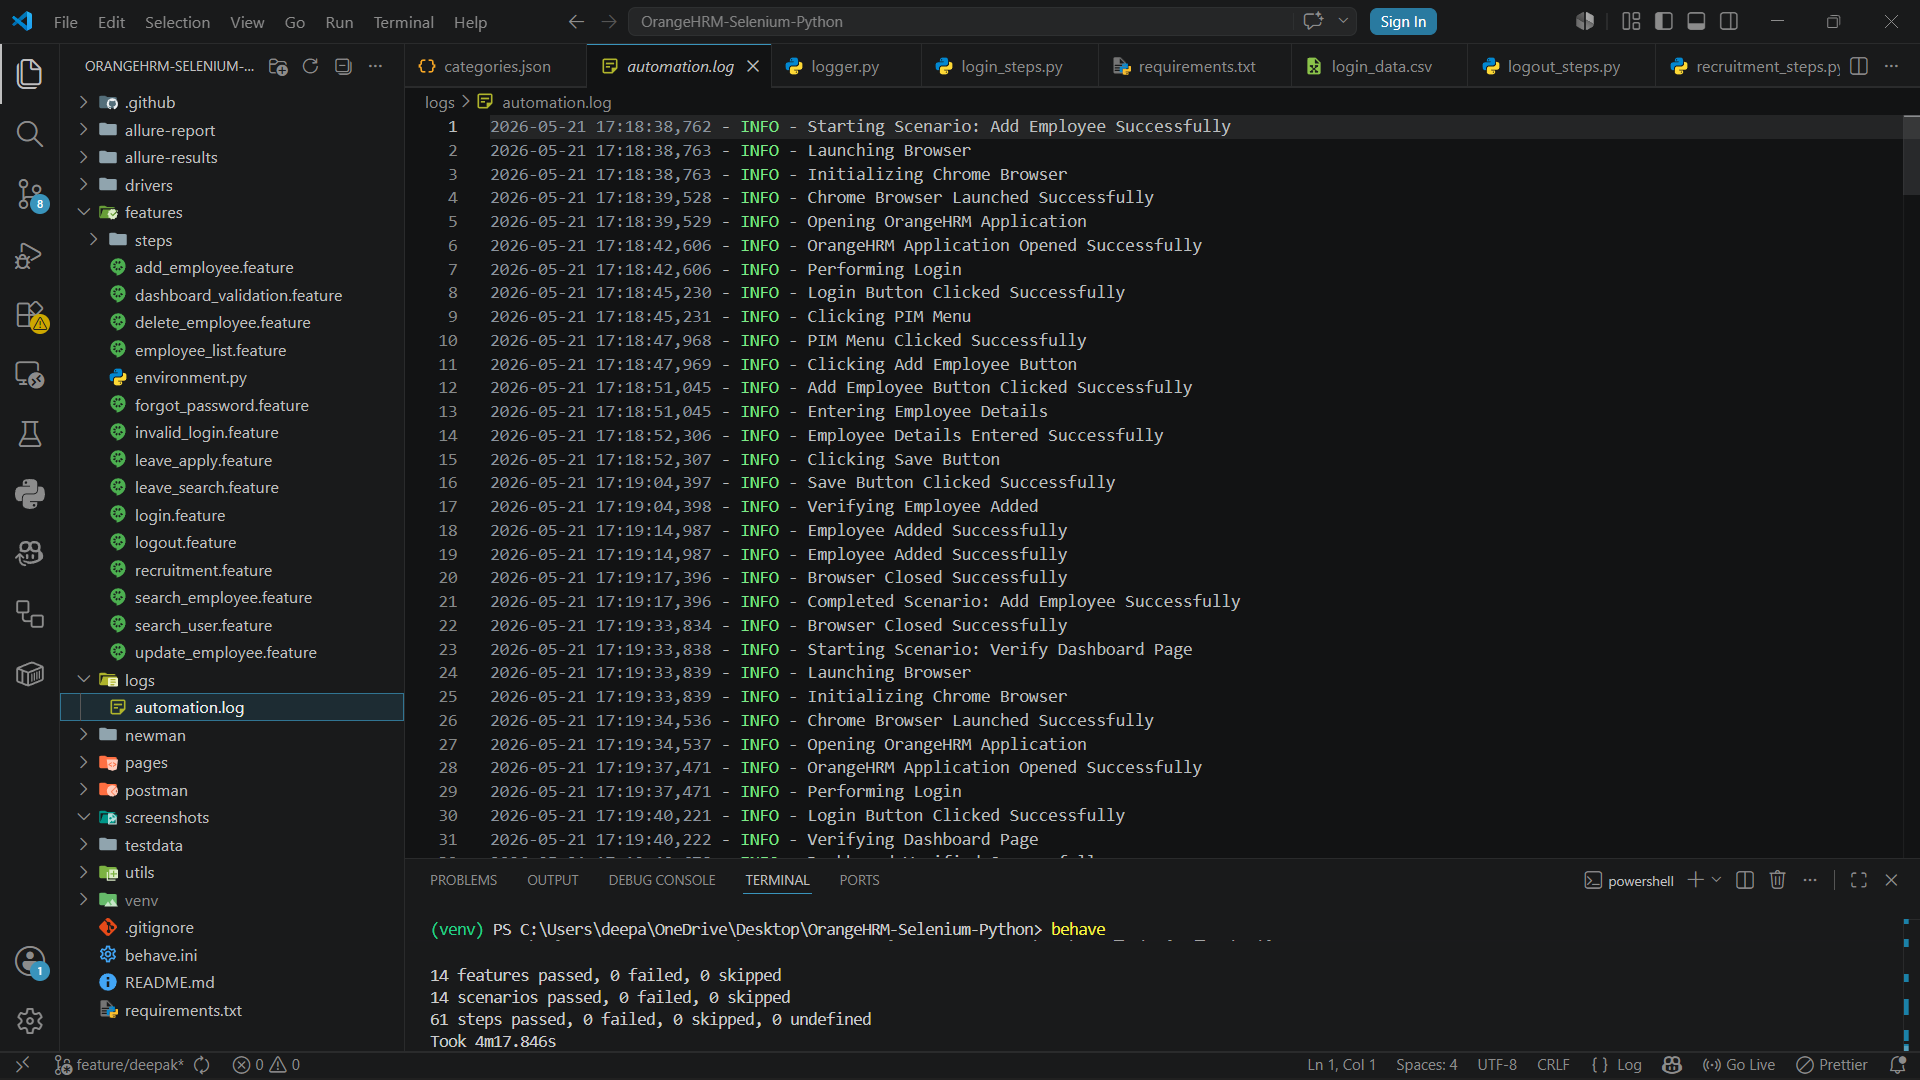
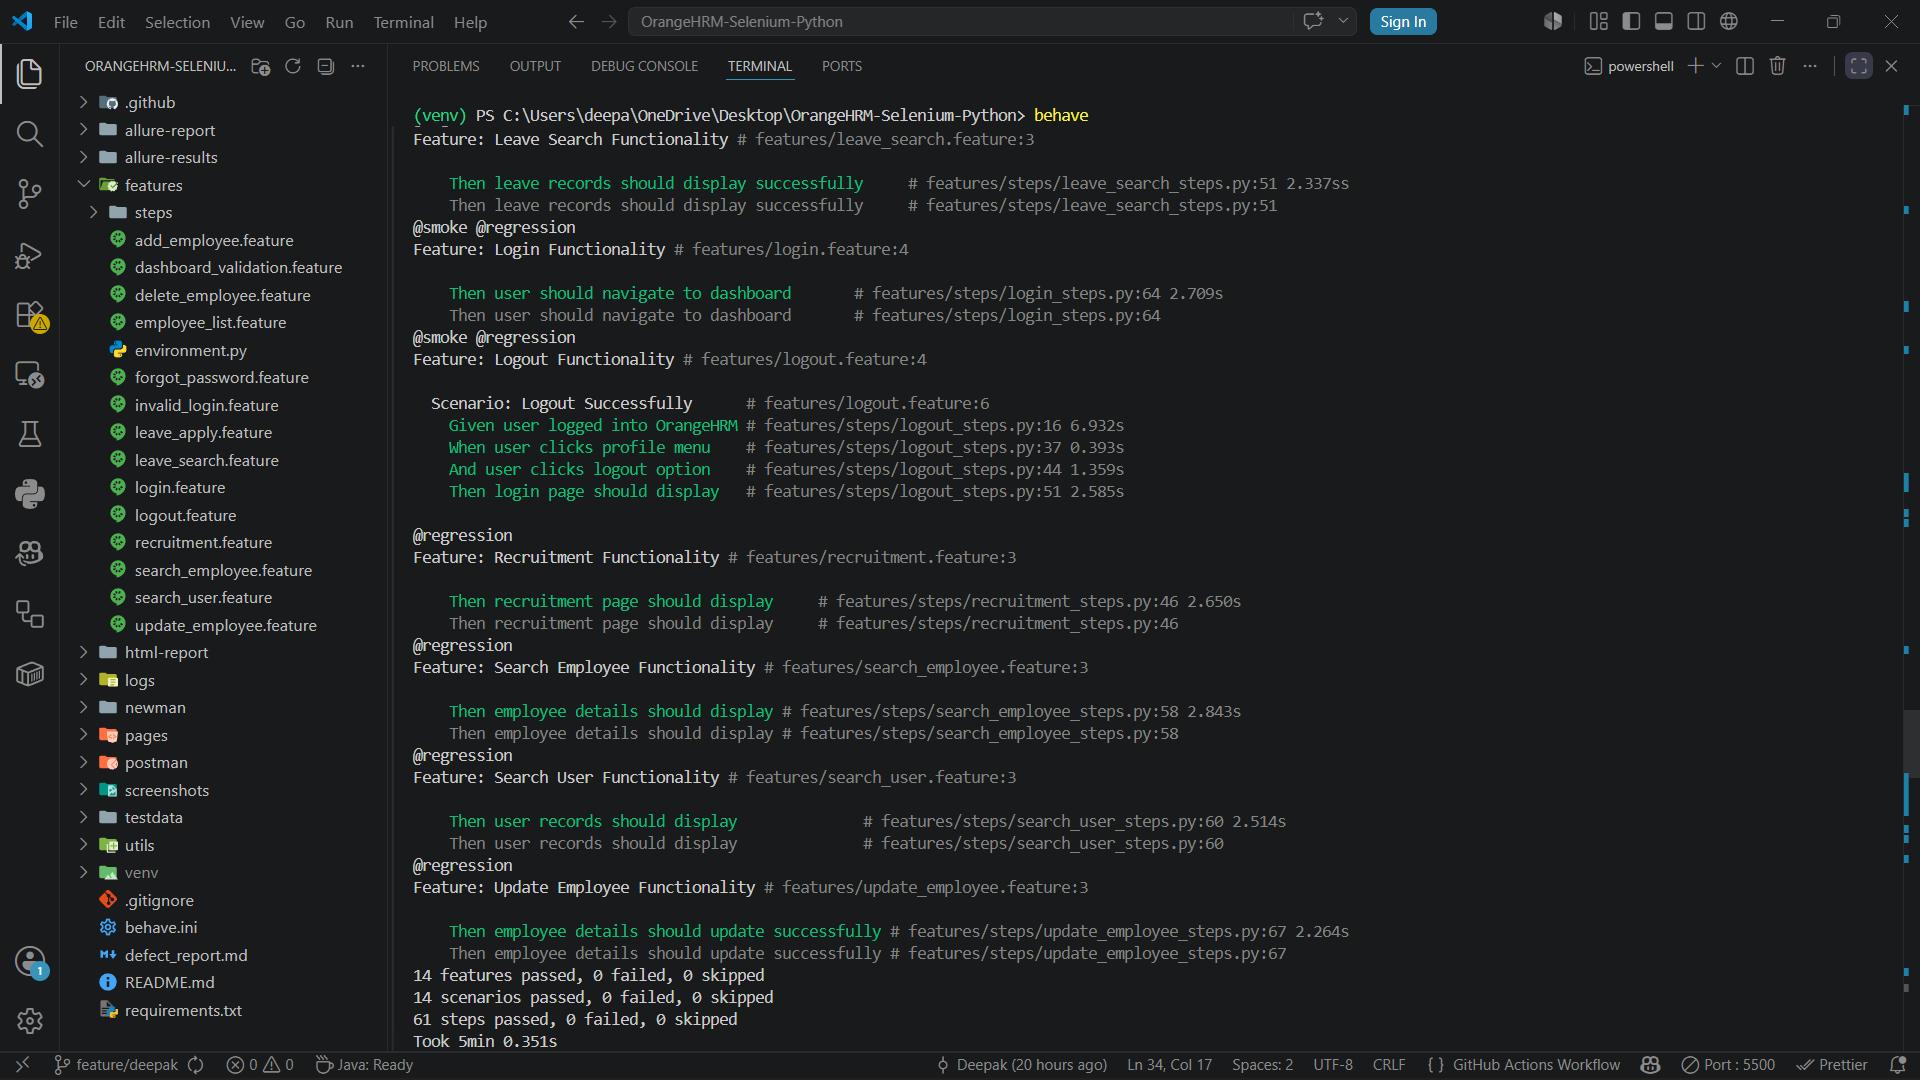
Project completed

diff --git a/README.md b/README.md
@@ -1,3 +1,4 @@
+````md
 ![CI](https://github.com/Deepak-SWP/OrangeHRM-Selenium-Python/actions/workflows/automation.yml/badge.svg)
 
 # OrangeHRM Selenium Python Automation Framework
@@ -32,13 +33,13 @@ The project covers both UI Automation Testing and API Testing using modern autom
 | Selenium WebDriver | UI Automation               |
 | Behave BDD         | Behavior Driven Development |
 | Allure Reports     | Reporting                   |
+| HTML Reports       | Execution Reporting         |
 | Postman            | API Testing                 |
 | Newman             | Postman CLI Execution       |
 | Git & GitHub       | Version Control             |
 | GitHub Actions     | CI/CD Pipeline              |
 | VS Code            | IDE                         |
 | Chrome Browser     | Test Execution              |
-| ChromeDriver       | Browser Driver              |
 | WebDriver Manager  | Driver Management           |
 | CSV                | Data Driven Testing         |
 | JSON               | API Validation              |
@@ -72,11 +73,11 @@ Selenium WebDriver
 OrangeHRM Application
        │
        ▼
-Allure Reports / Logs / Screenshots
+Allure Reports / HTML Reports / Logs / Screenshots
        │
        ▼
 GitHub Actions CI/CD
-```
+````
 
 ## Architecture Explanation
 
@@ -85,80 +86,8 @@ GitHub Actions CI/CD
 * Page Object Model (POM) handles web elements and reusable page actions.
 * Utility files manage reusable configurations like browser setup, logging, and credentials.
 * Selenium WebDriver performs browser automation.
-* Allure Reports generate execution insights and graphical reports.
+* Allure Reports and HTML Reports generate execution insights and graphical reports.
 * GitHub Actions provides CI/CD pipeline automation.
-
----
-
-# Framework Design
-
-The framework follows the Page Object Model (POM) design pattern.
-
-## Framework Components
-
-### 1. Feature Files
-
-Feature files are written using Gherkin syntax.
-
-These files contain:
-
-* Scenarios
-* Given
-* When
-* Then steps
-
-Example:
-
-```gherkin
-Feature: Login Functionality
-
-Scenario: Valid Login
-
-Given user is on login page
-When user enters valid username and password
-Then user should navigate to dashboard
-```
-
----
-
-### 2. Step Definition Files
-
-Step definition files contain Python code implementation for feature file steps.
-
-These files connect feature file steps with automation code.
-
----
-
-### 3. Page Object Model (POM)
-
-Each application page has a separate Python class.
-
-Examples:
-
-* Login Page
-* Dashboard Page
-* Employee Page
-* Leave Page
-* Recruitment Page
-
-POM helps in:
-
-* Reusability
-* Better maintenance
-* Reduced code duplication
-* Easy locator management
-
----
-
-### 4. Utility Files
-
-Utility files contain reusable common functionalities.
-
-Examples:
-
-* Driver setup
-* Logging
-* Configuration handling
 
 ---
 
@@ -228,14 +157,20 @@ Allure Reports provide:
 * Suites
 * Packages
 
-## Newman Reports
+## HTML Reports
 
-Newman Reports provide:
+HTML reports provide:
 
-* Request Summary
-* API Response Validation
-* Assertion Results
-* Execution Summary
+* Scenario Execution Details
+* Pass/Fail Status
+* Step Execution Summary
+* Clean Professional UI
+
+Report Location:
+
+```text
+html-report/report.html
+```
 
 ---
 
@@ -311,20 +246,24 @@ OrangeHRM-Selenium-Python/
 │       └── automation.yml
 │
 ├── allure-report/
-│
-├── drivers/
-│   └── chromedriver.exe
+├── allure-results/
 │
 ├── features/
 │   ├── steps/
 │   ├── environment.py
 │   └── *.feature
 │
+├── html-report/
+│   └── report.html
+│
+├── logs/
+│   └── automation.log
+│
 ├── newman/
 ├── pages/
 ├── postman/
-│
 ├── screenshots/
+│
 ├── testdata/
 │   └── login_data.csv
 │
@@ -334,12 +273,10 @@ OrangeHRM-Selenium-Python/
 │   └── logger.py
 │
 ├── defect_report.md
-├── .gitignore
 ├── README.md
-├── behave.ini
 ├── requirements.txt
-│
-└── automation.log
+├── behave.ini
+└── .gitignore
 ```
 
 ---
@@ -404,6 +341,22 @@ behave features/login.feature
 
 ---
 
+# Generate HTML Report
+
+```bash
+behave -f behave_html_pretty_formatter:PrettyHTMLFormatter -o html-report/report.html
+```
+
+---
+
+# Open HTML Report
+
+```text
+html-report/report.html
+```
+
+---
+
 # Generate Allure Report
 
 ## Generate Report
@@ -464,3 +417,6 @@ The framework successfully automates:
 This project demonstrates a complete automation testing framework using Selenium Python with BDD framework integration, reporting tools, API testing, reusable framework architecture, logging, CI/CD pipeline, and professional automation practices.
 
 The framework is designed to simulate real-time industry automation testing standards and improve software quality through automated validation.
+
+```
+```